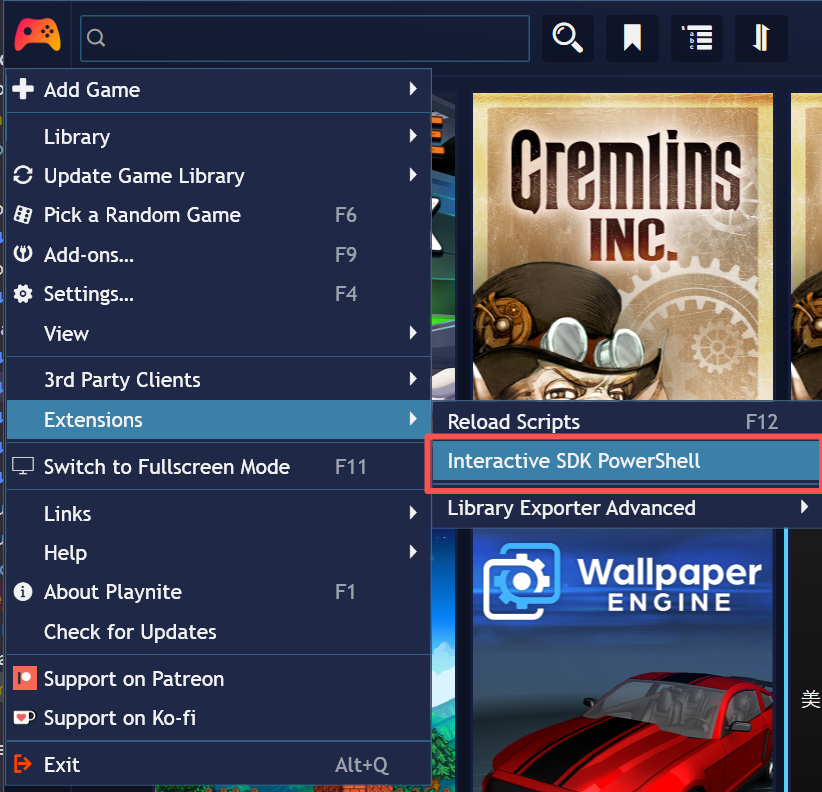
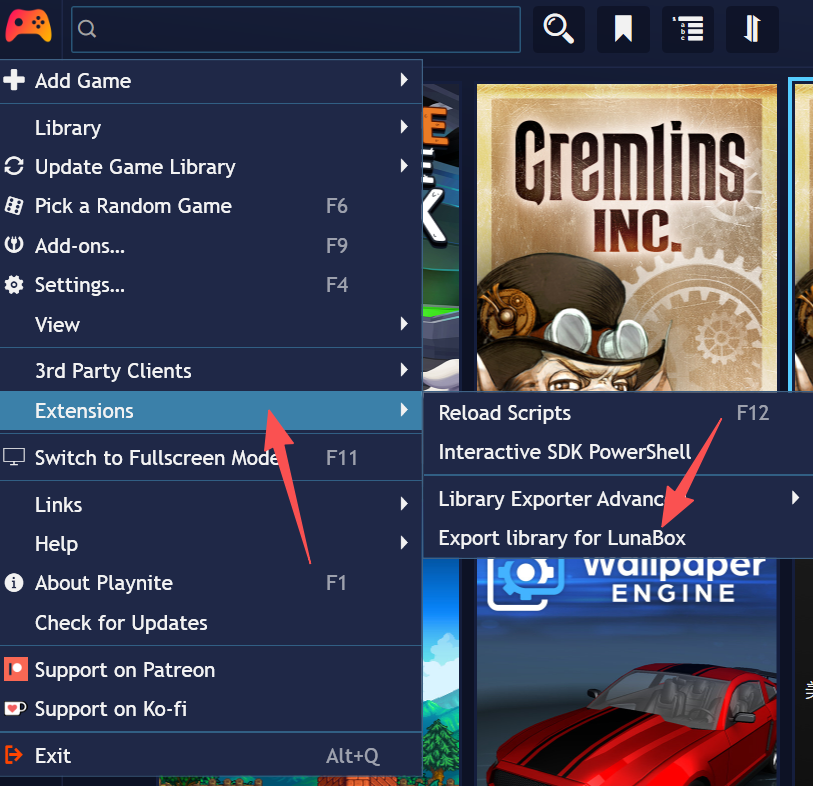
docs: update import-from-playnite documentation and improve export instructions

diff --git a/docs/features/import-from-playnite.md b/docs/features/import-from-playnite.md
@@ -6,88 +6,18 @@ LunaBox 支持从 [Playnite](https://playnite.link/) 导入游戏数据，方便
 确保您已经在电脑上安装并使用过 Playnite，并且有可用的游戏数据。游戏均有本地启动路径
 
 ## 2. 导出 Playnite 数据
-打开 Playnite，按照以下步骤导出游戏数据：
-1. 点击左上角的菜单按钮，选择 扩展 -> 交互式 SDK Powershell
+
+下载最新的 [Playnite 导出插件](https://github.com/Saramanda9988/LunaBox-playnite-expoter/releases/latest)
+
+打开 Playnite，安装此插件：
+1. 点击左上角的菜单按钮，选择 扩展 -> 导出到 LunaBox，将 playnite 库中的数据导出为 JSON 文件
   ![playnite.png](/image/playnite.png)
-2. 在弹出的 Powershell 窗口中，创建并执行以下脚本以导出游戏数据为 JSON 文件：
-  ```powershell
-    # 指定导出路径，请根据需要修改此路径
-    $exportPath = "D:\Playnite_GAL_Export.json"
-    # 指定导出路径，请根据需要修改此路径
-    
-    try {
-    Write-Host "--- Start Exporting Game Data ---" -ForegroundColor Cyan
-    
-        if ($null -eq $PlayniteApi) {
-            # 尝试从 Playnite 静态属性获取 API 实例
-            try {
-                $PlayniteApi = [Playnite.SDK.API]::Instance
-            } catch {}
-        }
-    
-        if ($null -eq $PlayniteApi) {
-            throw "Error: Still cannot find Playnite API. Are you sure this is the Playnite SDK window?"
-        }
-    
-        $allGames = $PlayniteApi.Database.Games
-        $exportGames = @()
-    
-        foreach ($game in $allGames) {
-            $launchPath = ""
-            
-            # 查找主启动动作 (Type 0 = File)
-            $playAction = $game.GameActions | Where-Object { 
-                $_.IsPlayAction -eq $true -and ($_.Type -eq 0 -or $_.Type -eq "File")
-            } | Select-Object -First 1
-    
-            if ($playAction) {
-                $expandedPath = $PlayniteApi.ExpandGameVariables($game, $playAction.Path)
-                
-                if (![System.IO.Path]::IsPathRooted($expandedPath)) {
-                    $launchPath = [System.IO.Path]::Combine($game.InstallDirectory, $expandedPath)
-                } else {
-                    $launchPath = $expandedPath
-                }
-            }
-    
-            # 构建数据
-            $gameData = [PSCustomObject]@{
-                id          = $game.Id.ToString()
-                name        = $game.Name
-                cover_url   = if ($game.CoverImage) { $PlayniteApi.Database.GetFullFilePath($game.CoverImage) } else { $null }
-                company     = ($game.Developers -join ", ")
-                summary     = $game.Description
-                path        = $launchPath
-                save_path   = $null
-                source_type = "local"
-                source_id   = $game.GameId
-                cached_at   = (Get-Date).ToUniversalTime().ToString("yyyy-MM-ddTHH:mm:ssZ")
-                created_at  = (Get-Date).ToUniversalTime().ToString("yyyy-MM-ddTHH:mm:ssZ")
-            }
-    
-            $exportGames += $gameData
-        }
-    
-        # 导出并强制使用 UTF8 编码 (PowerShell 5.1 下会带 BOM)
-        $exportGames | ConvertTo-Json -Depth 5 | Out-File -FilePath $exportPath -Encoding UTF8
-        
-        Write-Host "Export Success!" -ForegroundColor Green
-        Write-Host "Path: $exportPath"
-        Write-Host "Count: $($exportGames.Count)"
-    }
-    catch {
-    $errMsg = $_.Exception.Message
-    Write-Host "ERROR: $errMsg" -ForegroundColor Red
-    }
-  ```
+
 ::: warning
 ### 注意事项
-1. 请一定使用interactive SDK PowerShell运行此脚本，确保Playnite API可用 
-2. 您可以保存这段脚本为.ps1文件（如命名为playnite_exporter.ps1），方便以后重复使用，在interactive SDK PowerShell中导航到保存脚本的目录，使用”. .\playnite_exporter.ps1“命令执行脚本
-3. 中文windows用户必须使用GBK编码保存此脚本以避免乱码问题
-4. 一定要确保脚本中的导出路径（$exportPath）是有效且可写的，否则会导致导出失败
-5. 仓库中有GBK编码的[脚本](https://github.com/Saramanda9988/LunaBox/blob/main/scripts/playnite_exporter.ps1)，您可以下载后修改导出路径直接使用
-6. **一切出现的数据问题，作者概不负责，请谨慎操作**
+1. 此插件支持 playnite 10+ 版本，最低sdk版本为 PlayniteSDK 6.4.0 ，请注意版本
+2. 在完成导入之前请不要卸载playnite，可能会破坏对应的封面数据
+3. **一切出现的数据问题，作者概不负责，请谨慎操作**
 :::
 
 ## 3. 导入数据
@@ -99,8 +29,9 @@ LunaBox 支持从 [Playnite](https://playnite.link/) 导入游戏数据，方便
 
 ## 4. 导入选项说明
 ![img_4.png](/image/playnite-import.png)
-- **跳过无路径的游戏**：勾选此项将跳过没有本地路径的游戏（可能是网络游戏或已删除的游戏）
-- **预览功能**：在导入前可以预览游戏列表，包括游戏名称、开发商、状态等信息
+- **跳过无路径的游戏**：勾选此项将跳过没有重复的游戏（可能是具有相同目录或者重复元数据信息的游戏）
+- **仅合并**: 对于重复的游戏，不更新其元数据，只是将游玩记录合并进入
+- **更新并合并**: 对于重复的游戏，更新其元数据，只是将游玩记录合并进入
 
 ## 5. 确认导入结果
 导入完成后，您可以在游戏库中查看导入的游戏列表。系统会显示导入成功、跳过和失败的游戏数量，确保所有数据正确无误。
